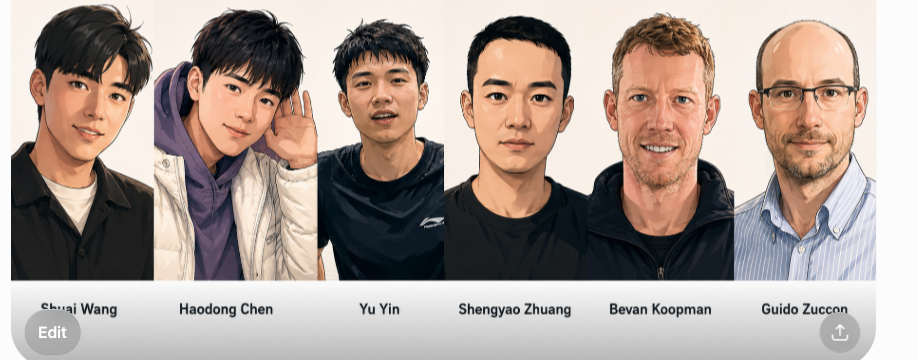
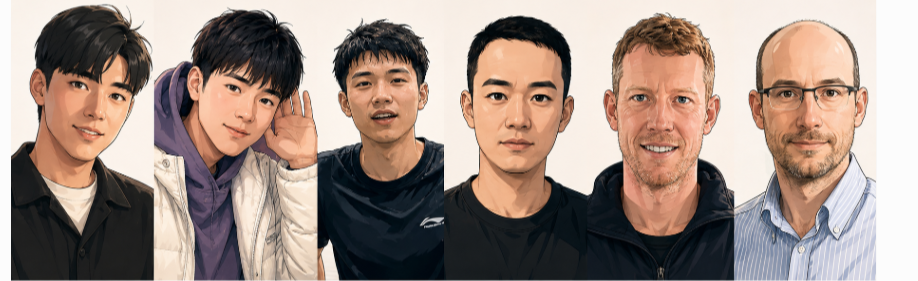
docs: team portraits on the project page and README; fix stale demo claims
Crops the supplied team.png to the portrait strip (the capture included an Edit
button, an upload icon and clipped names) and uses it in both places, with the
six names rendered as real linked text under the faces so each homepage is
reachable and the affiliations are visible.

Also corrects three README claims that this week's work invalidated: the demo is
no longer 'no key, no server' (it is a live local server driven by your own key),
the budget is 20 steps not 12, the collection is 101 documents not 102, and the
Pages route is GitHub Actions rather than deploy-from-branch.

diff --git a/docs/index.html b/docs/index.html
@@ -166,6 +166,15 @@
   .pv-replay:hover{border-color:var(--teal);color:var(--teal)}
   .cfill{transition:width .8s cubic-bezier(.2,.8,.2,1)}
 
+  /* team */
+  .team{margin-top:26px}
+  .team img{width:100%;border-radius:16px;border:1px solid var(--line-soft);display:block}
+  .team-names{display:grid;grid-template-columns:repeat(6,1fr);gap:4px;margin-top:9px}
+  .team-names a{display:block;text-align:center;font-size:12.5px;font-weight:650;color:var(--ink);line-height:1.3}
+  .team-names a:hover{color:var(--teal)}
+  .team-names a sup{color:var(--teal);font-size:9.5px;margin-left:1px}
+  @media(max-width:700px){.team-names{grid-template-columns:repeat(3,1fr);gap:8px 4px}}
+
   /* sections */
   section{padding:56px 0 0}
   .sec-k{font-family:var(--mono);font-size:11px;letter-spacing:.1em;text-transform:uppercase;color:var(--teal);font-weight:700}
@@ -225,6 +234,7 @@
     <a class="opt" href="#method">Method</a>
     <a class="opt" href="#library">Library</a>
     <a class="opt" href="#demo">Demo</a>
+    <a class="opt" href="#team">Team</a>
     <a href="https://arxiv.org/abs/2608.02751">Paper</a>
     <a href="https://github.com/ielab/skim-search-agent">GitHub</a>
   </div>
@@ -396,6 +406,27 @@ python run.py dataset=fixture strategy=sieve_bm25   <span class="c"># one episod
         <pre>pip install -e ".[demo-live]"
 python demo/server.py   <span class="c"># → http://localhost:8008</span></pre>
       </div>
+    </div>
+  </section>
+
+  <section id="team">
+    <span class="sec-k">The team</span>
+    <h2>Built at ielab</h2>
+    <div class="team">
+      <img src="assets/team.png" loading="lazy"
+           alt="Portraits of the six authors: Shuai Wang, Haodong Chen, Yu Yin, Shengyao Zhuang, Bevan Koopman and Guido Zuccon.">
+      <div class="team-names">
+        <a href="https://shuaiwang.io" target="_blank" rel="noreferrer">Shuai Wang<sup>1</sup></a>
+        <a href="https://donovan0243.github.io/" target="_blank" rel="noreferrer">Haodong Chen<sup>1</sup></a>
+        <a href="https://yinyubb.github.io/" target="_blank" rel="noreferrer">Yu Yin<sup>1</sup></a>
+        <a href="https://arvinzhuang.github.io/" target="_blank" rel="noreferrer">Shengyao Zhuang<sup>2</sup></a>
+        <a href="https://bevankoopman.github.io/" target="_blank" rel="noreferrer">Bevan Koopman<sup>3,1</sup></a>
+        <a href="https://ielab.io/people/guido-zuccon.html" target="_blank" rel="noreferrer">Guido Zuccon<sup>1</sup></a>
+      </div>
+    </div>
+    <div class="affil" style="margin-top:14px">
+      <span><sup>1</sup><a href="https://ielab.io" target="_blank" rel="noreferrer">ielab</a>, The University of Queensland</span>
+      <span><sup>2</sup>Amazon AGI &nbsp;&middot;&nbsp; <sup>3</sup>Australian e-Health Research Centre, CSIRO</span>
     </div>
   </section>
 

diff --git a/agent_search/agent/tools/doc_research.py b/agent_search/agent/tools/doc_research.py
@@ -113,6 +113,19 @@ from agent_search.retrievers.structural.bql.executor import (
 from agent_search.retrievers.structural.bql.parser import parse as bql_parse
 from agent_search.retrievers.structural.bql.surface import to_bql
 
+# Query-biased snippet width, in whitespace tokens — the size of the best-matching window
+# `best_line` picks for each search hit (research_snip / research_indri_snip / research_bm25q
+# and every *_fetch_snip cell). A sweepable knob: 32 (default), 64, 128, 256, 512 ... Larger
+# windows show the agent more context per hit before it decides what to fetch, at a
+# proportional cost in listing tokens.
+# NOTE: this default is 32; the pre-knob hardcoded value was 25, so a run that must reproduce
+# earlier numbers exactly needs SNIPPET_TOKENS=25.
+SNIPPET_TOKENS = int(os.environ.get("SNIPPET_TOKENS", "32"))
+# Belt-and-braces character cap on the same window. Scales with SNIPPET_TOKENS at the ratio the
+# hardcoded pair used (160 chars / 25 tokens = 6.4), so widening the window is not silently
+# undone by a cap sized for a small one. Independently overridable.
+SNIPPET_MAX_CHARS = int(os.environ.get("SNIPPET_MAX_CHARS", str(round(SNIPPET_TOKENS * 6.4))))
+
 MAX_VISIT_TOKENS = int(os.environ.get("MAX_VISIT_TOKENS", "1200"))
 # Parity fix (docs/bql_failure_forensics.md): fetch's per-section read budget defaults to the
 # SAME resolved value as visit's whole-doc budget — the factorial's READ axis is meant to differ
@@ -222,8 +235,10 @@ def sections_from_body(body: str) -> "dict[str, str]":
     return out
 
 
-def best_line(u: CodeUnit, terms: "list[str]", width: int = 25, max_chars: int = 160) -> str:
-    """The doc's best-matching ~`width`-token window for `terms` — a single pass over the
+def best_line(u: CodeUnit, terms: "list[str]", width: int = SNIPPET_TOKENS,
+              max_chars: int = SNIPPET_MAX_CHARS) -> str:
+    """The doc's best-matching ~`width`-token window for `terms` (`width` defaults to
+    `SNIPPET_TOKENS`, env-settable) — a single pass over the
     whitespace-tokenized body, incrementally tracking how many DISTINCT `terms` (`code_tokenize`
     'd, case-insensitive) the current window contains as it slides one token at a time (add the
     entering token, drop the leaving one); the highest-scoring window wins, ties -> earliest (a
@@ -383,8 +398,8 @@ class DocSearchFetch:
             out.append("body")
         return ",".join(out) or "-"
 
-    def _best_line(self, u: CodeUnit, leaf_toks: list, width: int = 25,
-                   max_chars: int = 160) -> str:
+    def _best_line(self, u: CodeUnit, leaf_toks: list, width: int = SNIPPET_TOKENS,
+                   max_chars: int = SNIPPET_MAX_CHARS) -> str:
         """research_snip (`snippets=True`): the doc's best-matching ~`width`-token window for
         `leaf_toks`. Thin wrapper over the module-level `best_line` (shared verbatim with
         `Bm25Visit`'s query-biased excerpt, research_bm25q) — kept as an instance method so

diff --git a/README.md b/README.md
@@ -66,7 +66,8 @@ python3.10 -m venv .venv && source .venv/bin/activate
 python -m pip install -e .
 ```
 
-Prefer to *watch* one first? See the [Demo](#demo) below — no key, no GPU, no server.
+Prefer to *watch* one first? See the [Demo](#demo) below — a local server and your own
+API key, no GPU.
 
 Run a complete research-agent experiment as one command — every knob is a `key=value`:
 
@@ -125,15 +126,16 @@ python demo/server.py          # -> http://localhost:8008/
 ```
 
 A little agent hops between its tool stations (Search → Read → Answer) on a stage, the
-102-document collection wall lights up as documents are surfaced and read, and a live meter
-counts every token and fraction of a cent. Bring your own OpenAI key (a run is capped at 12
-steps — well under 1¢ on gpt-4o-mini; the key is used per-request and never stored or logged).
+101-document collection wall lights up as documents are surfaced and read, and a live meter
+counts every token, cached-token discount and fraction of a cent. Bring your own OpenAI key (a
+run is capped at 20 steps — well under 1¢ on gpt-4o-mini; the key is used per-request and never
+stored or logged).
 **Race mode** runs Sieve vs the Search-Visit baseline side by side on the same question and ends
 in a head-to-head chart — the paper's claim, live. The collection is a curated subsample of real
 BrowseComp-Plus documents; see [`demo/`](demo/README.md) for how it was built.
 
-There is also a **project page** at [`docs/index.html`](docs/index.html) (GitHub Pages-ready:
-Settings → Pages → deploy from `main` `/docs`).
+There is also a **project page** at [`docs/index.html`](docs/index.html), published to
+<https://ielab.github.io/skim-search-agent/> — see [`docs/PUBLISHING.md`](docs/PUBLISHING.md).
 
 ## What can be swapped?
 
@@ -293,3 +295,27 @@ If you use Sieve or its released evaluation resources, please cite:
   url           = {https://arxiv.org/abs/2608.02751}
 }
 ```
+
+## The team
+
+<p align="center">
+  <img src="docs/assets/team.png" width="100%" alt="The six authors: Shuai Wang, Haodong Chen, Yu Yin, Shengyao Zhuang, Bevan Koopman and Guido Zuccon."/>
+</p>
+
+<div align="center">
+
+[Shuai Wang](https://shuaiwang.io)<sup>1</sup> ·
+[Haodong Chen](https://donovan0243.github.io/)<sup>1</sup> ·
+[Yu Yin](https://yinyubb.github.io/)<sup>1</sup> ·
+[Shengyao Zhuang](https://arvinzhuang.github.io/)<sup>2</sup> ·
+[Bevan Koopman](https://bevankoopman.github.io/)<sup>3,1</sup> ·
+[Guido Zuccon](https://ielab.io/people/guido-zuccon.html)<sup>1</sup>
+
+<sup>1</sup>[ielab](https://ielab.io), The University of Queensland ·
+<sup>2</sup>Amazon AGI ·
+<sup>3</sup>Australian e-Health Research Centre, CSIRO
+
+**[Project page](https://ielab.github.io/skim-search-agent/)** ·
+**[Paper](https://arxiv.org/abs/2608.02751)**
+
+</div>
